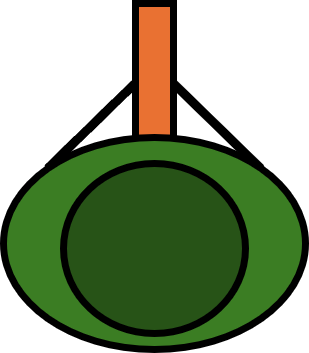
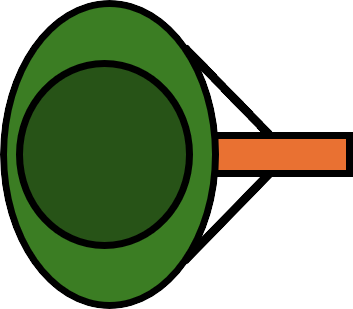
Added camera follow player system

diff --git a/src/player.rs b/src/player.rs
@@ -17,8 +17,10 @@ pub struct PlayerPlugin;
 impl Plugin for PlayerPlugin {
     fn build(&self, app: &mut App) {
         app.add_systems(Startup, spawn_player)
+            .add_systems(Update, camera_follow_player_system)
             .add_systems(Update, player_input_system)
-            .add_systems(Update, player_sprint_system);
+            .add_systems(Update, player_sprint_system)
+            .add_systems(Update, player_look_system);
     }
 }
 
@@ -51,6 +53,23 @@ fn spawn_player(
     ));
 }
 
+fn camera_follow_player_system(
+    mut camera_query: Query<&mut Transform, (With<Camera2d>, Without<Player>)>,
+    player_query: Query<&Transform, (With<Player>, Without<Camera2d>)>,
+    time: Res<Time>,
+) {
+    let mut camera_transform = camera_query.single_mut();
+    let player_transform = player_query.single();
+    
+
+    let camera_speed = 3.0;
+
+    camera_transform.translation = camera_transform.translation.lerp(
+        player_transform.translation,
+        camera_speed * time.delta_secs(),
+    );
+}
+
 fn player_input_system(
     keyboard: Res<ButtonInput<KeyCode>>,
     mut query: Query<(&mut Velocity, &Movement), With<Player>>,
@@ -80,11 +99,29 @@ fn player_sprint_system(
     keyboard: Res<ButtonInput<KeyCode>>,
     mut query: Query<&mut Movement, With<Player>>,
 ) {
-    if let Ok(mut movement) = query.get_single_mut() {
-        if keyboard.pressed(KeyCode::ShiftLeft) {
-            movement.speed_multiplier = PLAYER_SPRINT_MULTIPLIER;
-        } else {
-            movement.speed_multiplier = 1.0;
+    let mut movement = query.single_mut();
+
+    if keyboard.pressed(KeyCode::ShiftLeft) {
+        movement.speed_multiplier = PLAYER_SPRINT_MULTIPLIER;
+    } else {
+        movement.speed_multiplier = 1.0;
+    }
+}
+
+fn player_look_system(
+    window: Query<&Window, With<PrimaryWindow>>,
+    camera: Query<(&Camera, &GlobalTransform), With<Camera2d>>,
+    mut player: Query<&mut Transform, With<Player>>,
+) {
+    let window = window.single();
+    let (camera, camera_transform) = camera.single();
+    let mut player_transform = player.single_mut();
+
+    if let Some(curser_position) = window.cursor_position() {
+        if let Ok(world_position) = camera.viewport_to_world_2d(camera_transform, curser_position) {
+            let direction = world_position - player_transform.translation.truncate();
+            let angle = direction.y.atan2(direction.x);
+            player_transform.rotation = Quat::from_rotation_z(angle);
         }
     }
 }

diff --git a/src/main.rs b/src/main.rs
@@ -20,12 +20,13 @@ fn main() {
         .run();
 }
 
-fn spawn_camera(mut commands: Commands, window_query: Query<&Window, With<PrimaryWindow>>) {
-    let window = window_query.single();
-
+fn spawn_camera(mut commands: Commands) {
     commands.spawn((
         Camera2d {},
-        Transform::from_xyz(window.width() / 2.0, window.height() / 2.0, 0.0),
+        Transform {
+            translation: Vec3::ZERO,
+            ..Default::default()
+        },
     ));
 }
 
